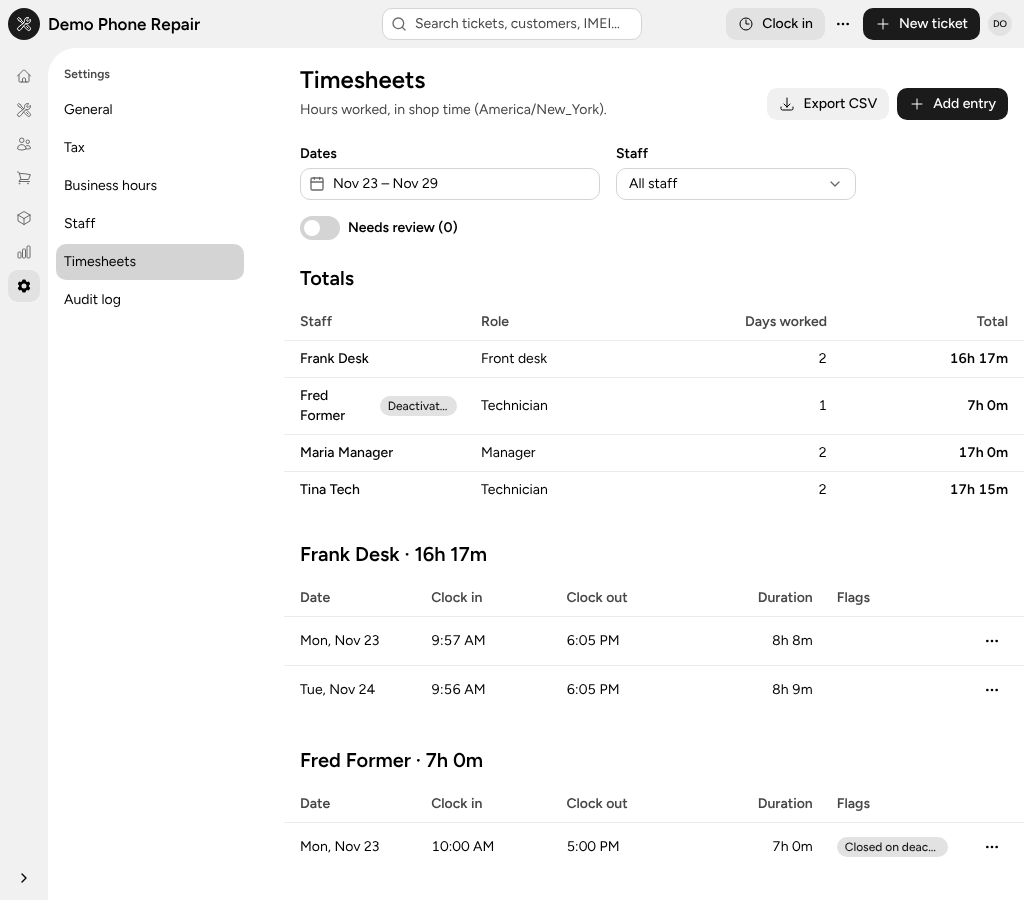
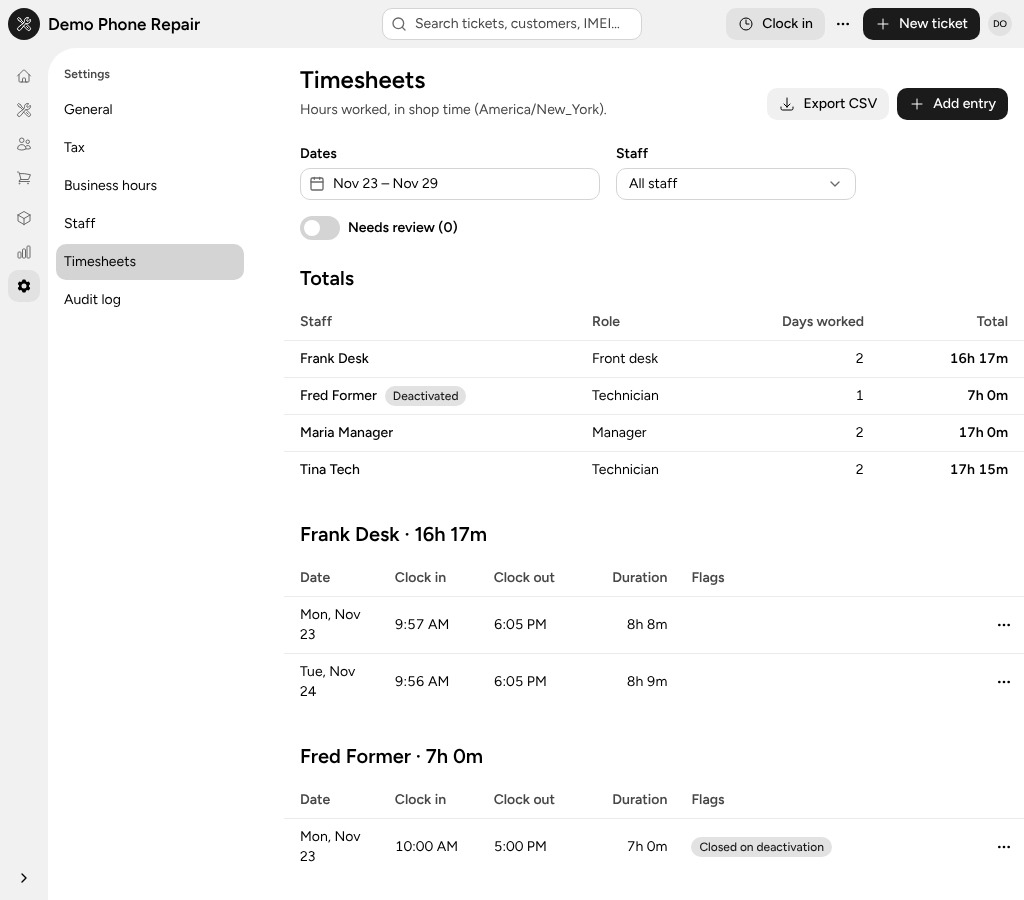
QA retest: all Sprint 1 bugs fixed; backlog follow-ups
Claude-Session: https://claude.ai/code/session_01DHLxdJ6BHPdbupuuQUUJpz

diff --git a/docs/qa/sprint1.md b/docs/qa/sprint1.md
@@ -294,3 +294,17 @@ Status: **Pass**, **Fail (BUG-x)**, **Partial** (the real-stack test covers part
 - **SC1.2** (5 shops per hour) and invite rate limits (20/day/shop): the limits are in-memory per API process, so reruns against a long-lived API would trip them. The QA env raises `SHOP_CREATE_PER_HOUR`.
 - **E1.4 FAILED path / "Email failed. Resend"**, **D6 production start-up refusal:** they need a failing provider or a production start. Out of scope for this suite.
 - **Mobile ≤ 900px** (TabList settings nav, icon-only clock): only 1024 and 1440 were in scope.
+
+## Retest after fixes (2026-11-25, main 0ff1a70)
+
+Real-stack suite with `REAL_API_LOG` set: **56 passed, 0 failed, 0 skipped.**
+
+| Bug | Status | Fixed in |
+|---|---|---|
+| BUG-01 tokens in API logs | **Fixed**: SEC-01 passes with the API log checked | fix/sprint1-api (log-redact serializers, Referer dropped, 302 Location masked) |
+| BUG-02 prefetch writes export audit events | **Fixed**: AUD-03 passes | fix/sprint1-web (plain download anchor) + fix/sprint1-api (prefetch requests ignored) |
+| BUG-03 access-removed banner missing after in-app action | **Fixed**: DEACT-02b passes | fix/sprint1-web (banner state latched) |
+| BUG-04 story's UK example invalid | **Fixed in the story** (example is now 07911 123456); PROF-GB-2 passes | main |
+| BUG-05 truncation at 1024px | **Fixed**: LAYOUT-1024 passes | fix/sprint1-web |
+| BUG-06 hours inputs unnamed by day | **Fixed**: A11Y-names-hours passes | fix/sprint1-web |
+| BUG-07 clock button announced twice | **Fixed**: A11Y-names-clock passes | fix/sprint1-web |

diff --git a/docs/BACKLOG.md b/docs/BACKLOG.md
@@ -27,3 +27,11 @@ one instance (before the beta).
 - Finding 12 (getSession dropped refreshed `Set-Cookie`): fixed. The auth guard calls
   `getSession({ returnHeaders: true })` and forwards `Set-Cookie`, so sliding session expiry and
   cleared cookies reach the browser through `/api/*` calls (test: "forwards the refreshed session cookie").
+
+### Stale-tab requests can be cached under the previous shop (Sprint 2)
+*Source: Sprint 1 web fixes (M3 follow-up).*
+If tab 2 switches shop, a request already sent by tab 1 is answered for the new shop but cached under the old shop's key until the next `/me` refetch (focus or 403) drops it. Close it fully by having the API echo `shopId` in shop-scoped responses (or accept an `X-Shop-Id` header and reject a mismatch with 409), with the web client discarding mismatched responses.
+
+### Flaky mocked e2e: onboarding country select (Sprint 2)
+*Source: Sprint 1 web fixes.*
+`e2e/tests/onboarding.spec.ts` occasionally fails when clicking the Country option during the dropdown animation. Wait for the listbox to be stable before clicking.
